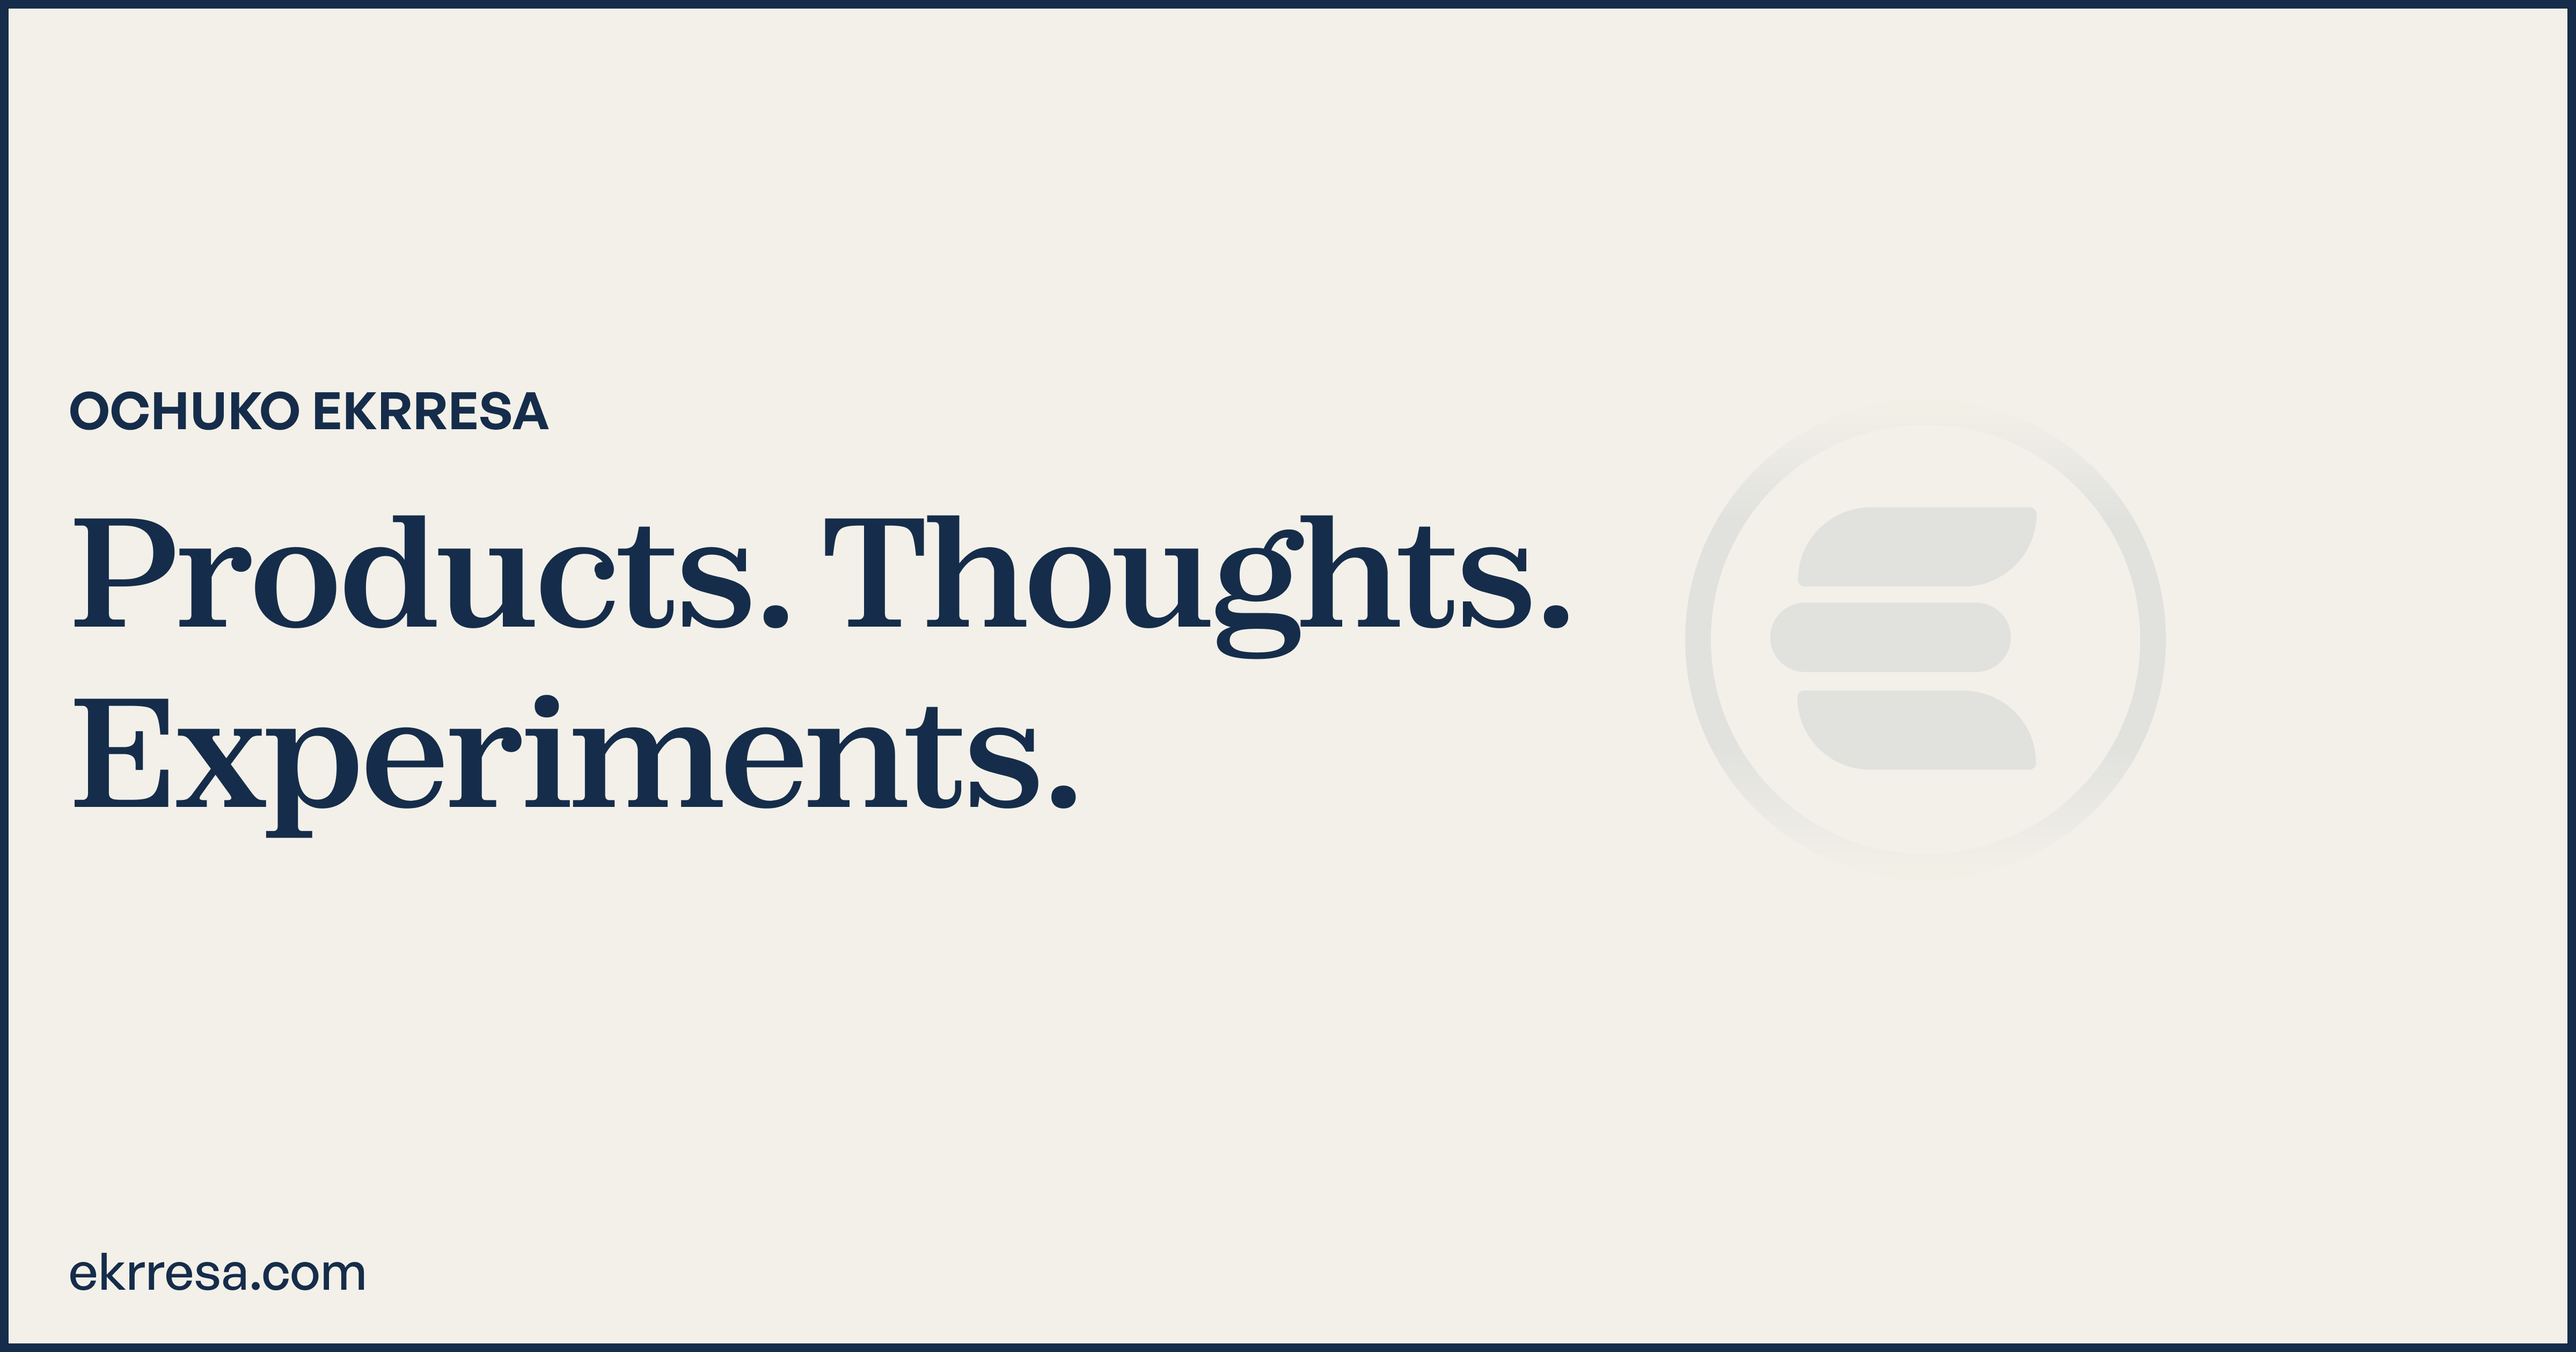
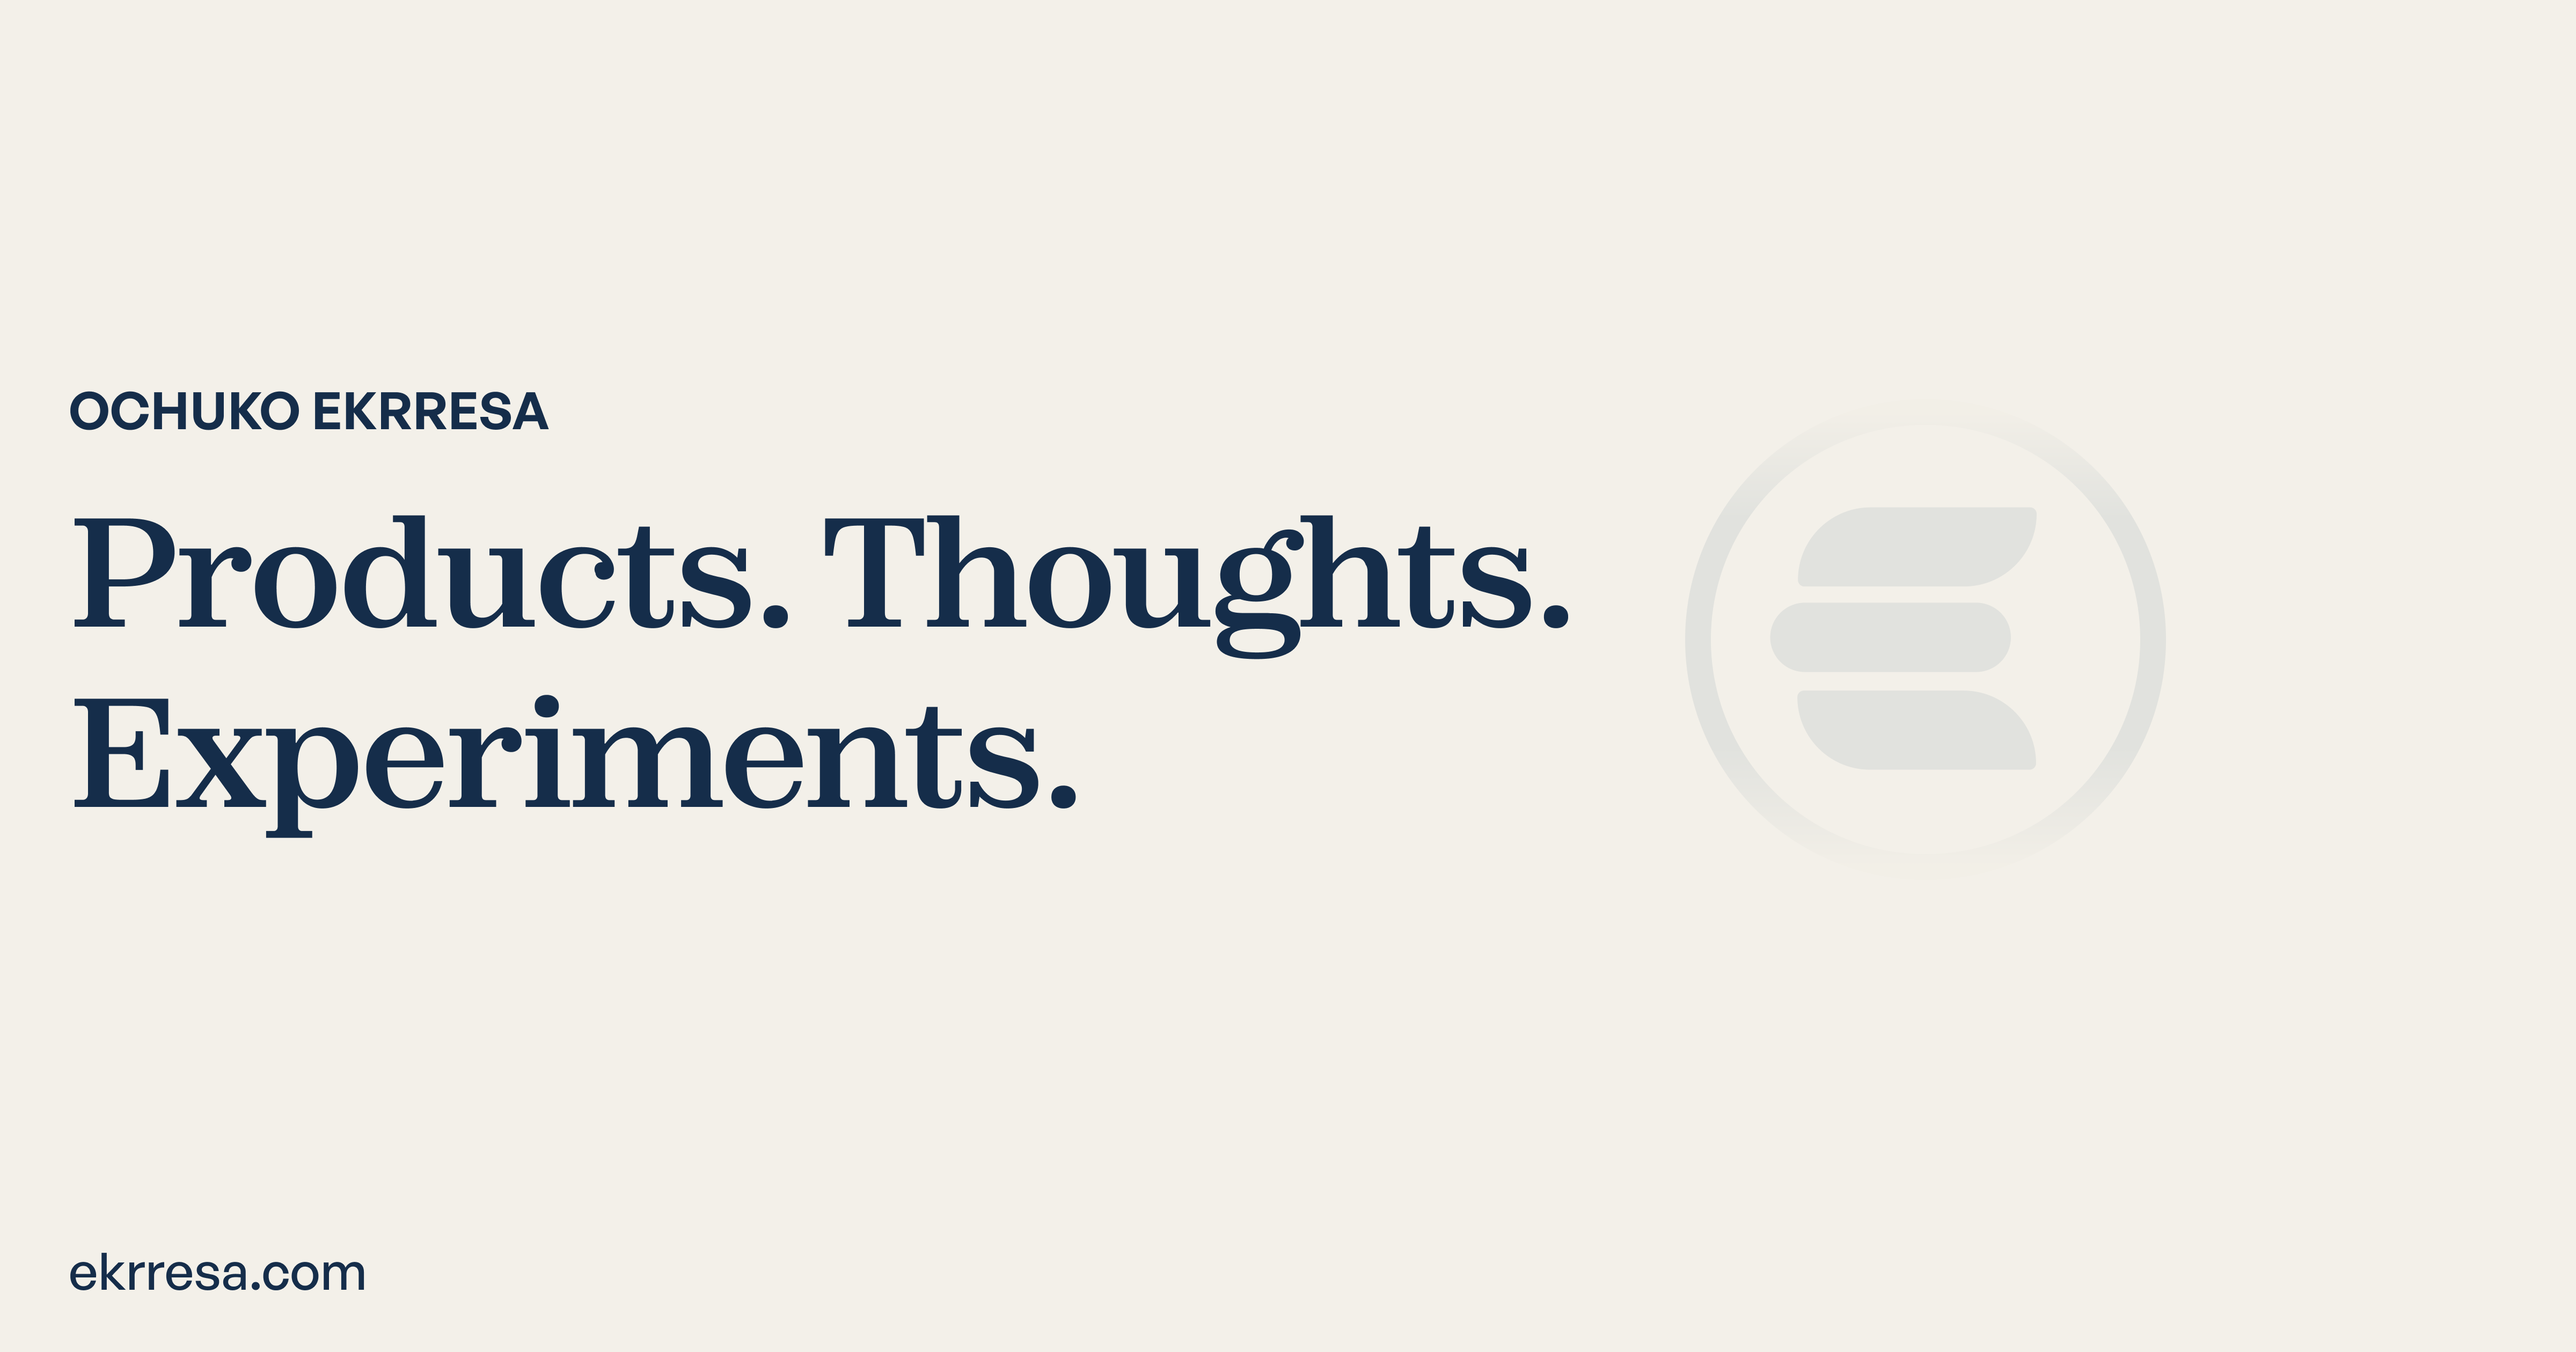
Updates

Changed region(s): [[0.0, 0.0, 1.0, 1.0]]

diff --git a/src/app/document.tsx b/src/app/document.tsx
@@ -27,8 +27,8 @@ export function Document({ children, ctx }: DocumentProps) {
         <meta property="og:description" content={siteMetadata.description} />
         <meta property="og:url" content={siteMetadata.siteUrl} />
         <meta property="og:image" content={siteMetadata.socialBanner} />
-        <meta property="og:image:width" content="4800" />
-        <meta property="og:image:height" content="2520" />
+        <meta property="og:image:width" content="1200" />
+        <meta property="og:image:height" content="630" />
         <meta property="og:image:alt" content="Ochuko Ekrresa — Software Engineer" />
         <meta name="twitter:card" content="summary_large_image" />
         <meta name="twitter:site" content={siteMetadata.twitterHandle} />

diff --git a/src/app/lib/utils.ts b/src/app/lib/utils.ts
@@ -4,10 +4,10 @@ import { twMerge } from 'tailwind-merge'
 export const IMAGE_BASE_URL = 'https://assets.ekrresa.com'
 
 export const siteMetadata = {
-  title: 'Ochuko Ekrresa – Software Engineer',
+  title: 'Ochuko Ekrresa',
   author: 'Ochuko Ekrresa',
   description:
-    'Ochuko is a software engineer building products for the web. Sharing insights on software development, experiments, and lessons learned.',
+    'Software Engineer sharing insights on software development, experiments, and lessons learned.',
   language: 'en',
   siteUrl: 'https://ekrresa.com',
   siteRepo: 'https://github.com/ekrresa/ekrresa.com',
